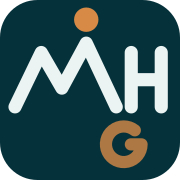
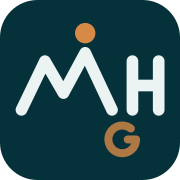
Draw Goal in the Water at the family's size and weight
At header height every mark gets the same 32px, and this one stacks three
things in it — the goal above, the mountain, the reflected G below — so the
mountain, which is what the eye reads as the logo, came out about three
quarters the size of the others and a stroke lighter.

The mountain now stands 39 units tall at stroke 8 like the rest, with the
gaps above and below tightened to make room; the box widens to 108 so the
H still fits beside it. The H's stems sit 18 apart rather than 16, and the
G is drawn at a lighter 5.5 stroke so its counter and spur stay open.
Composition, proportions and the G's position under the mountain/H
junction are unchanged.

Also removes two temporary visual-check files that e1f1581 committed by
mistake; nothing referenced them.

Changed region(s): [[0.3056, 0.0278, 0.9444, 0.9444], [0.0278, 0.25, 0.3056, 0.6667], [0.2778, 0.4444, 0.3056, 0.5]]

diff --git a/src/brand/marks.ts b/src/brand/marks.ts
@@ -165,30 +165,31 @@ export const MARKS: Record<LogoVariant, MarkDefinition> = {
     label: 'Goal in the Water — the G reflected below',
     description:
       'The mountain and an H stand on the shore; what reflects in the water beneath is the amber G.',
-    note: 'The narrative mark: look into the water and the goal is what you find. As in the original, the G is reflected beneath the point where the mountain meets the H, at 80% amber so it reads as submerged without going pale. Below 48 px it tiers down to the peaks over a single amber point — the G has no definition to keep at that size.',
+    note: 'The narrative mark: look into the water and the goal is what you find. As in the original, the G is reflected beneath the point where the mountain meets the H, at 80% amber so it reads as submerged without going pale. Three things stack vertically here, so the mountain is drawn as large as the height allows and at the family’s stroke weight, otherwise it reads smaller than the other marks at the same header height; the G is drawn lighter so its counter stays open. Below 48 px it tiers down to the peaks over a single amber point — the G has no definition to keep at that size.',
+    width: 108,
     elements: [
       {
         kind: 'path',
-        d: 'M 8 57 L 22 28 L 33 47 L 46 23 L 62 57',
+        d: 'M 7 61.6 L 23.1 28.2 L 35.8 50.1 L 50.7 22.5 L 69.1 61.6',
         role: 'form',
-        strokeWidth: 7,
+        strokeWidth: 8,
         linecap: 'round',
         linejoin: 'round',
       },
-      { kind: 'circle', cx: 46, cy: 10.5, r: 6.5, role: 'accent' },
+      { kind: 'circle', cx: 50.7, cy: 9, r: 7, role: 'accent' },
       {
         kind: 'path',
-        d: 'M 70 57 L 70 28 M 70 42.5 L 86 42.5 M 86 28 L 86 57',
+        d: 'M 83.1 61.6 L 83.1 28.2 M 83.1 44.9 L 101.1 44.9 M 101.1 28.2 L 101.1 61.6',
         role: 'form',
-        strokeWidth: 7,
+        strokeWidth: 8,
         linecap: 'round',
         linejoin: 'round',
       },
       {
         kind: 'path',
-        d: 'M 71.9 69.5 A 9.5 9.5 0 1 0 75.5 77 L 69.8 77',
+        d: 'M 82.0 74.4 A 9.5 9.5 0 1 0 85.6 81.9 L 79.9 81.9',
         role: 'accent',
-        strokeWidth: 6.5,
+        strokeWidth: 5.5,
         linecap: 'round',
         linejoin: 'round',
         opacity: 0.8,
